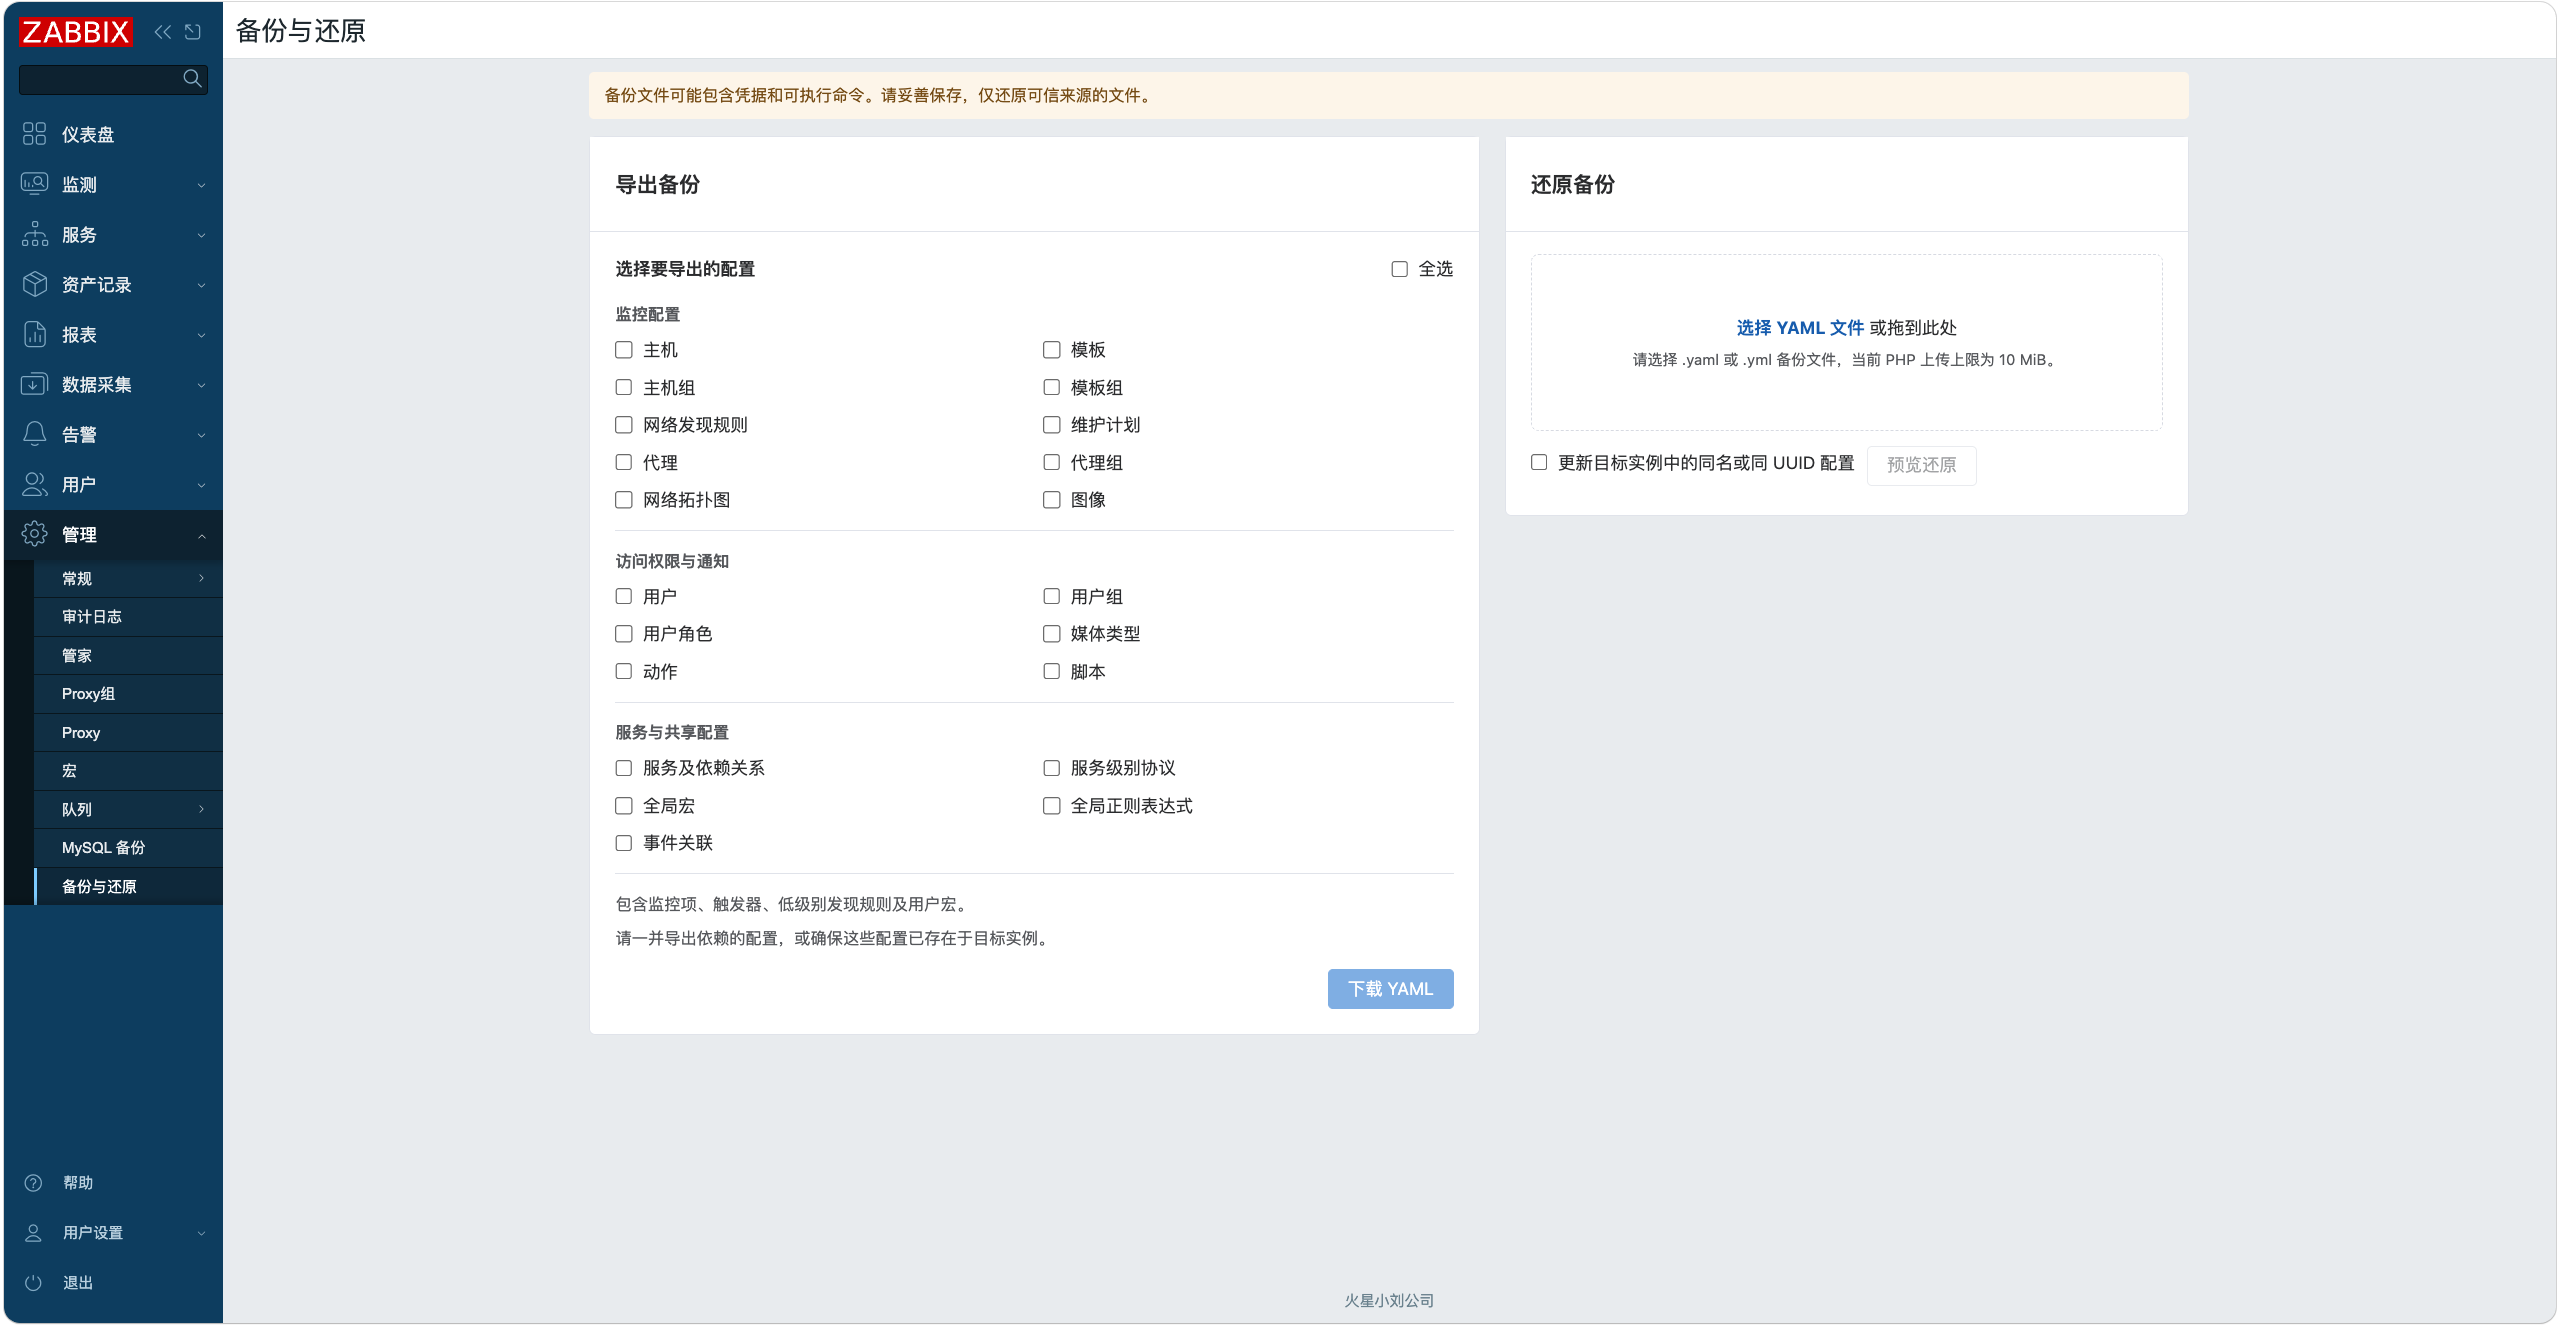
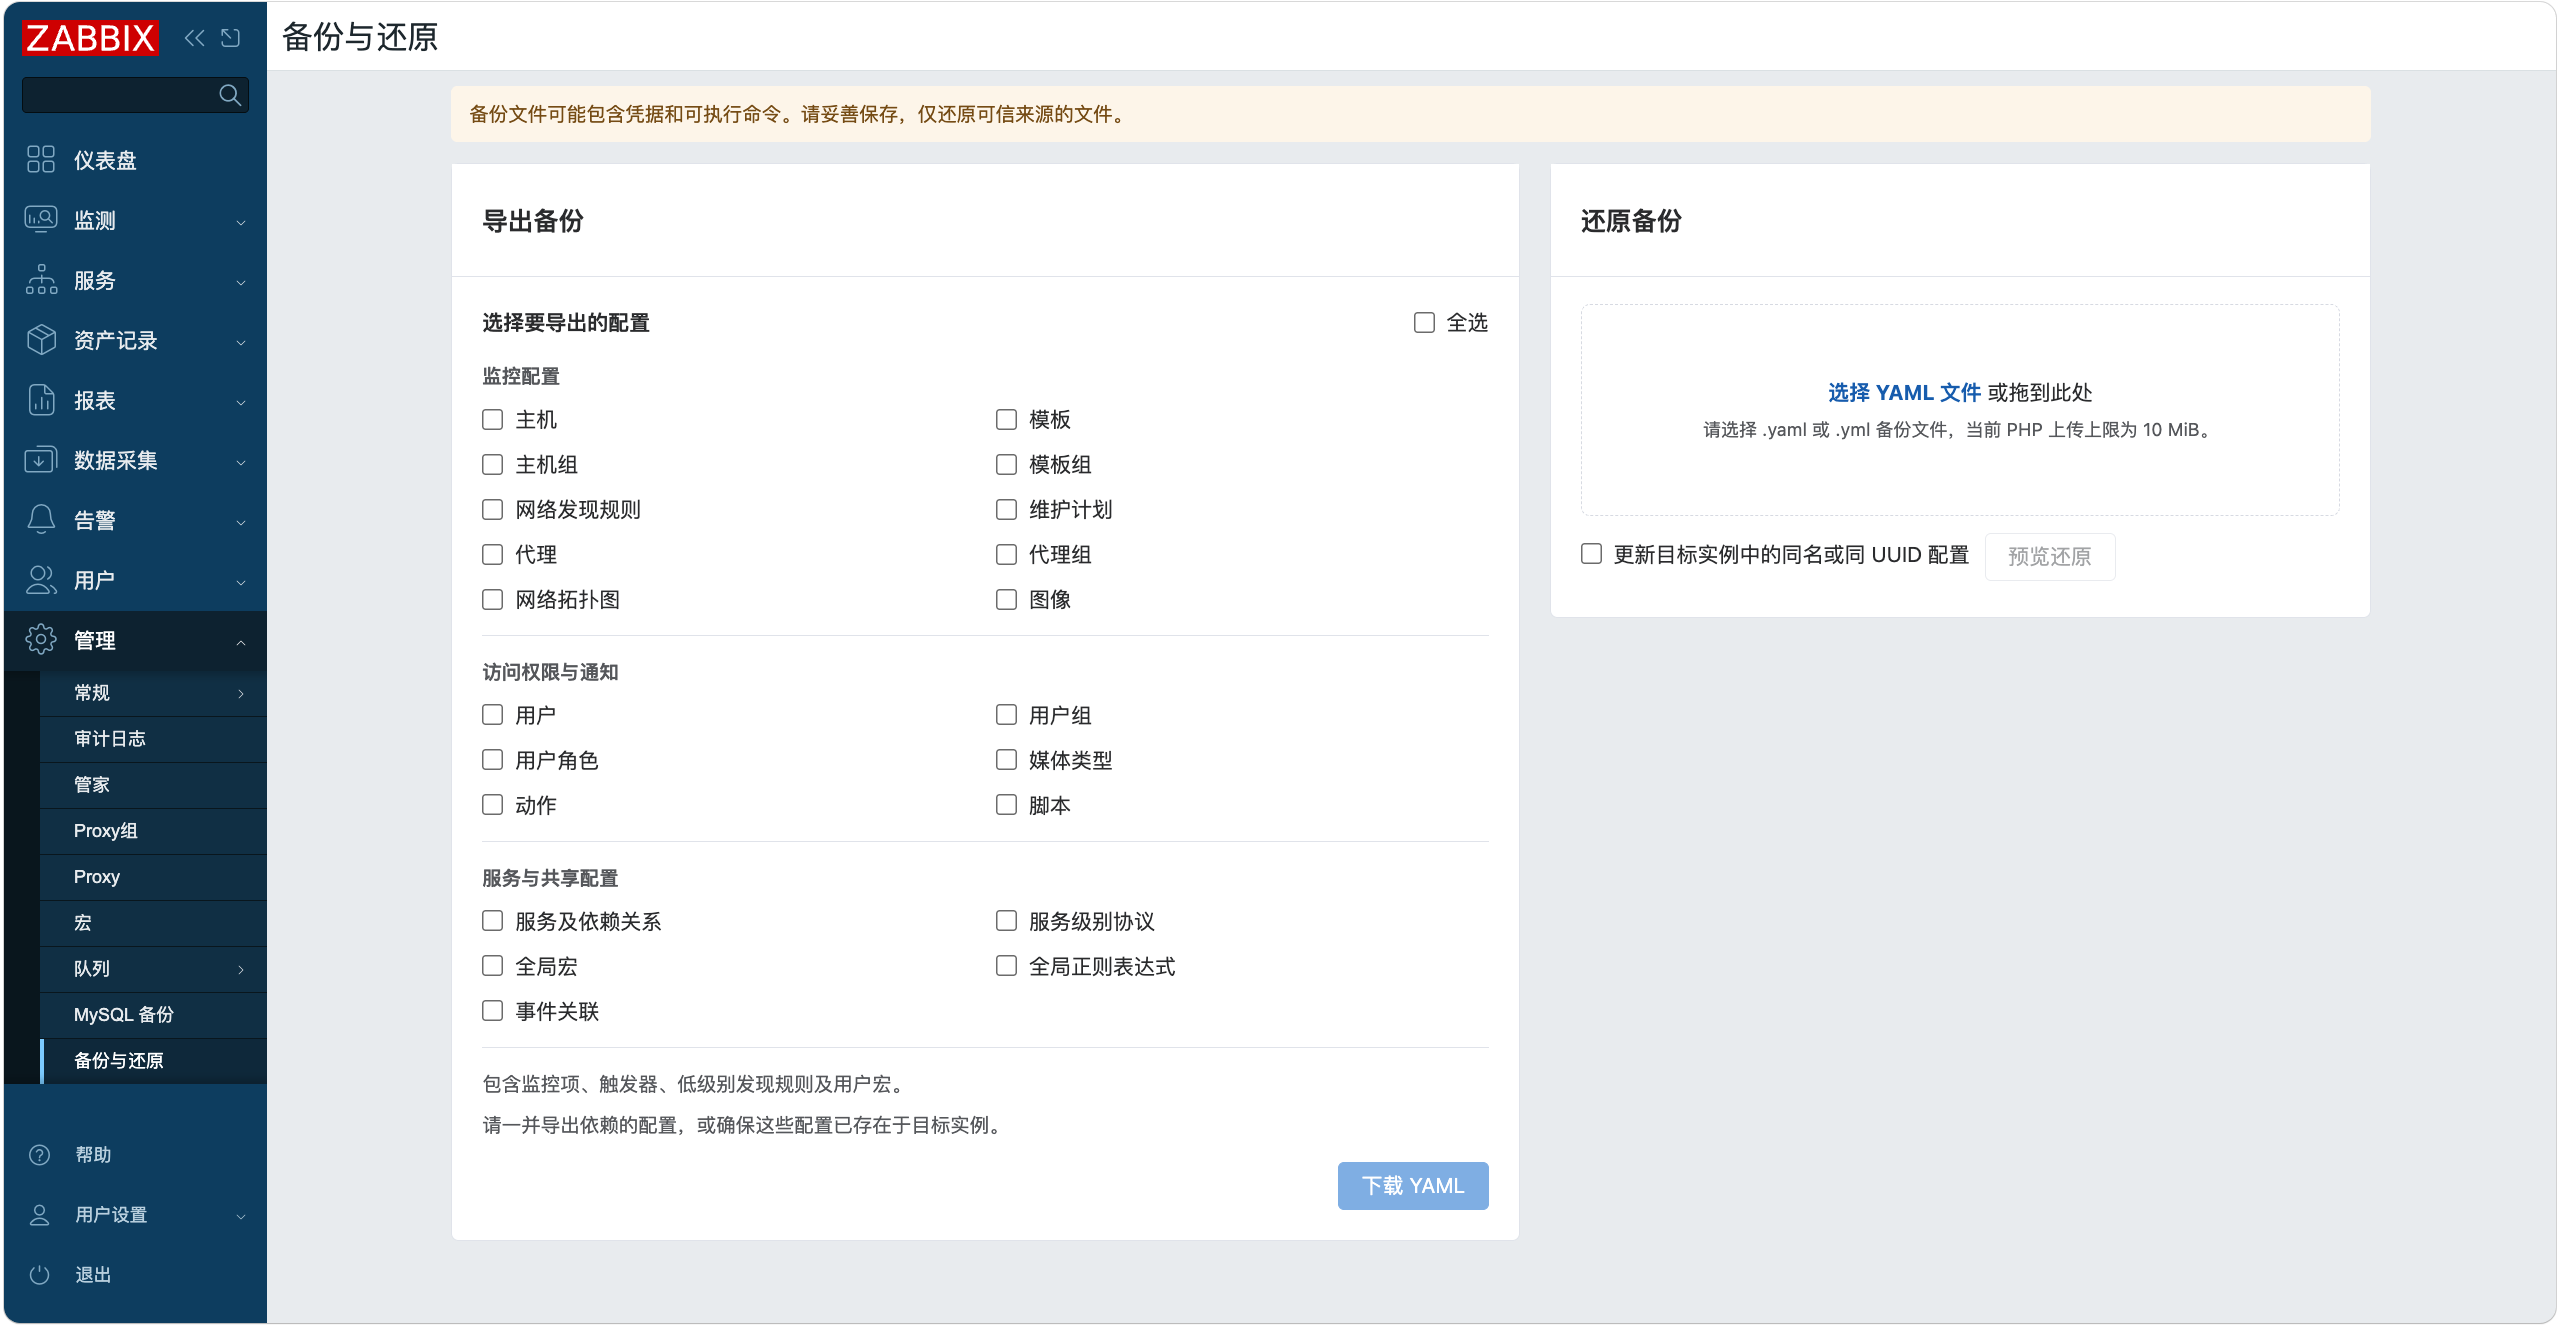
更新 readme

diff --git a/README_en.md b/README_en.md
@@ -18,6 +18,8 @@ This collection contains independent modules that extend the Zabbix monitoring s
 
 ## Modules
 
+![1](images/1.png)
+
 | No. | Module | Version | What it does |
 | ---: | --- | --- | --- |
 | 1 | [Zabbix Reports](./zabbix_reports/README_en.md) | `1.1.0` | Generate daily, weekly, monthly, and custom-period reports with previews, PDF export, and email delivery. |
@@ -35,6 +37,7 @@ This collection contains independent modules that extend the Zabbix monitoring s
 | 13 | [Zabbix Rebrand Logo](./zabbix_rebrand_logo/README_en.md) | `1.1.0` | Replace the login and sidebar logos and browser favicon, and customize the server name, footer, and help link. |
 | 14 | [Zabbix MySQL Backup](./zabbix_backup_mysql/README_en.md) | `2.0.3` | Export Zabbix MySQL or MariaDB table structures and data as SQL, with options to download the file or save it on the server. |
 | 15 | [Zabbix LLDP Topology](./zabbix_lldp/README_en.md) | `1.0.0-beta` | Draw neighbor topology from Zabbix LLDP discovery items, filter by host group or host, and inspect link ports. |
+| 16 | [Zabbix Backup and Restore](./zabbix_backup_restore/README_en.md) | `1.1.0` | Export Zabbix configuration such as hosts, templates, users, and permissions to YAML by category, then preview and restore it on a target instance. |
 
 ### 1. Zabbix Reports
 
@@ -315,6 +318,34 @@ Zabbix Super admins can export the current Zabbix MySQL or MariaDB database as a
 ![1](zabbix_backup_mysql/images/1.png)
 
 Supports Zabbix 7.0 and 8.0, verified on 7.0.32 and 8.0.0. [Chinese documentation](./zabbix_backup_mysql/README.md) · [English documentation](./zabbix_backup_mysql/README_en.md)
+
+### 15. Zabbix LLDP Topology
+
+Explore device and port connections using LLDP neighbor data already collected by Zabbix. Open **Monitoring → LLDP Topology**.
+
+**Features**
+
+- Filter by host group or host. The module reads the latest values of `lldp.remote.info[*]` items on hosts linked to the `Lldp Discovery` template.
+- View disconnected networks separately in the SVG map. The map shows three levels by default and lets you expand nodes to see more.
+- Hover over a link to see the local and remote devices, their ports, and when the data was last updated.
+
+**Compatibility** — Zabbix 6.0.x, 7.0.x, 7.4.x, and 8.0.x.
+
+[English documentation](./zabbix_lldp/README_en.md) · [中文](./zabbix_lldp/README.md)
+
+### 16. Zabbix Backup and Restore
+
+Zabbix Super admins can export configuration by category from **Administration → Backup and restore**, then preview and restore it on the target instance.
+
+**Features**
+
+- Export hosts, templates, users and permissions, actions, maintenance periods, services, and SLAs to a single YAML file. The module supports exports and uploads up to 500 MiB per file. The effective upload limit depends on the deployment configuration.
+- Preview the source and target versions and record counts before restoring. By default, restore creates missing objects. You can also choose to update matching objects.
+- Restore from Zabbix 7.0 to 7.0, 7.0 to 8.0, or 8.0 to 8.0. If restore fails, the entire batch rolls back.
+
+![Configuration backup and restore interface](zabbix_backup_restore/images/1.png)
+
+[English documentation](./zabbix_backup_restore/README_en.md) · [中文](./zabbix_backup_restore/README.md)
 
 ## Installation
 

diff --git a/README.md b/README.md
@@ -18,6 +18,8 @@ Zabbix Switch Visual 的组件加载、配置表单和默认视图已在 Zabbix 
 
 ## 模块列表
 
+![1](images/1.png)
+
 | 序号 | 模块 | 版本号 | 功能介绍 |
 | ---: | --- | --- | --- |
 | 1 | [Zabbix Reports](./zabbix_reports/README.md) | `1.1.0` | 生成日报、周报、月报和自定义时段报表，支持在线预览、PDF 导出和邮件发送。 |
@@ -35,6 +37,7 @@ Zabbix Switch Visual 的组件加载、配置表单和默认视图已在 Zabbix 
 | 13 | [Zabbix Rebrand Logo（品牌设置）](./zabbix_rebrand_logo/README.md) | `1.1.0` | 更换登录页和侧边栏标志及浏览器图标，并自定义服务器名称、页脚和帮助链接。 |
 | 14 | [Zabbix MySQL Backup（数据库备份）](./zabbix_backup_mysql/README.md) | `2.0.3` | 将 Zabbix 的 MySQL 或 MariaDB 表结构和数据导出为 SQL 文件，支持浏览器下载或保存到服务器。 |
 | 15 | [Zabbix LLDP Topology](./zabbix_lldp/README.md) | `1.0.0-beta` | 根据 Zabbix 的 LLDP 发现监控项绘制设备邻居拓扑，支持按主机组或主机筛选和查看链路端口。 |
+| 16 | [Zabbix Backup and Restore（配置备份与还原）](./zabbix_backup_restore/README.md) | `1.1.0` | 按类别将主机、模板、用户和权限等 Zabbix 配置导出为 YAML，支持在目标实例预览并还原。 |
 
 ### 1. Zabbix Reports
 
@@ -315,6 +318,34 @@ Zabbix 超级管理员可在「管理 → MySQL 备份」将当前 Zabbix 的 My
 ![1](zabbix_backup_mysql/images/1.png)
 
 支持 Zabbix 7.0 和 8.0，已在 7.0.32 和 8.0.0 验证。 [中文文档](./zabbix_backup_mysql/README.md) · [English](./zabbix_backup_mysql/README_en.md)
+
+### 15. Zabbix LLDP Topology
+
+**简介**：读取 Zabbix 中已有的 LLDP 邻居监控数据，在「监测 → LLDP 拓扑」查看设备与端口的连接关系。
+
+**功能特性**
+
+- 按主机组或主机筛选，读取关联 `Lldp Discovery` 模板的主机上 `lldp.remote.info[*]` 监控项的最新值。
+- 在 SVG 拓扑图中分开展示互不连通的网络，默认显示三层，可展开查看更多节点。
+- 将指针悬停在链路上，可查看本地和对端设备、端口及数据更新时间。
+
+**兼容性**：Zabbix 6.0.x、7.0.x、7.4.x、8.0.x。
+
+[中文文档](./zabbix_lldp/README.md) · [English](./zabbix_lldp/README_en.md)
+
+### 16. Zabbix Backup and Restore（配置备份与还原）
+
+**简介**：Zabbix 超级管理员可在「管理 → 备份与还原」按类别导出配置，并在目标实例预览后还原。
+
+**功能特性**
+
+- 将主机、模板、用户与权限、动作、维护计划、服务及 SLA 等配置导出为单个 YAML 文件。单文件导出和上传上限均为 500 MiB，实际上传上限取决于部署配置。
+- 还原前预览源版本、目标版本和记录数。还原时默认创建缺失对象，也可选择更新匹配对象。
+- 支持 Zabbix 7.0 → 7.0、7.0 → 8.0 和 8.0 → 8.0。还原失败时整批回滚。
+
+![配置备份与还原界面](zabbix_backup_restore/images/1.png)
+
+[中文文档](./zabbix_backup_restore/README.md) · [English](./zabbix_backup_restore/README_en.md)
 
 ## 安装说明
 
